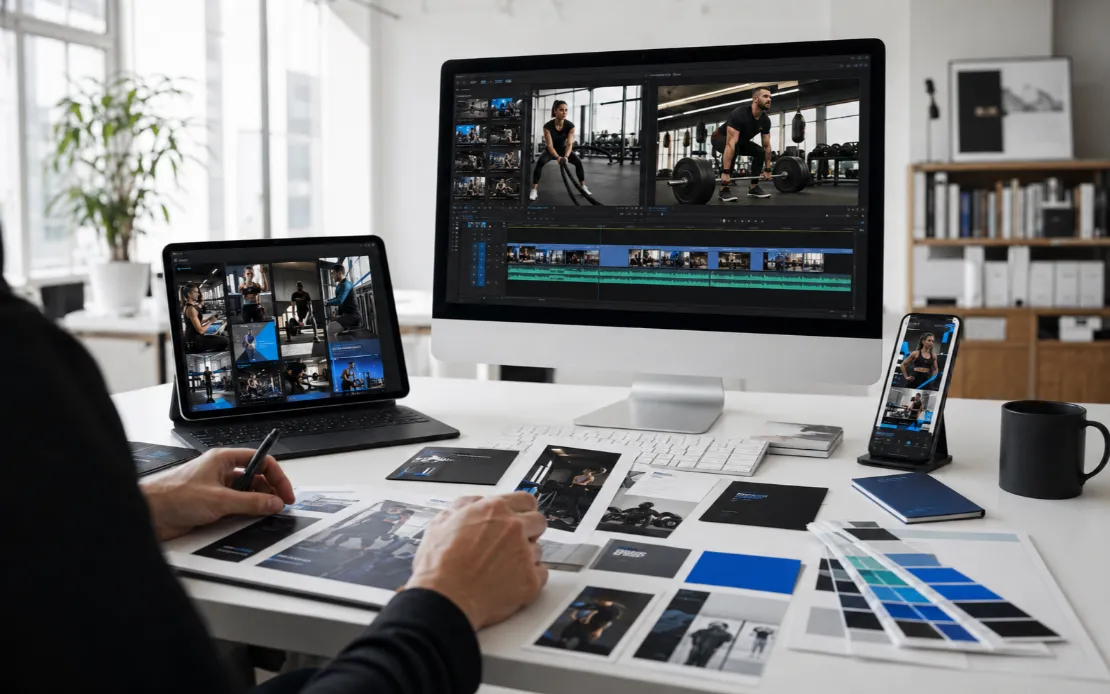
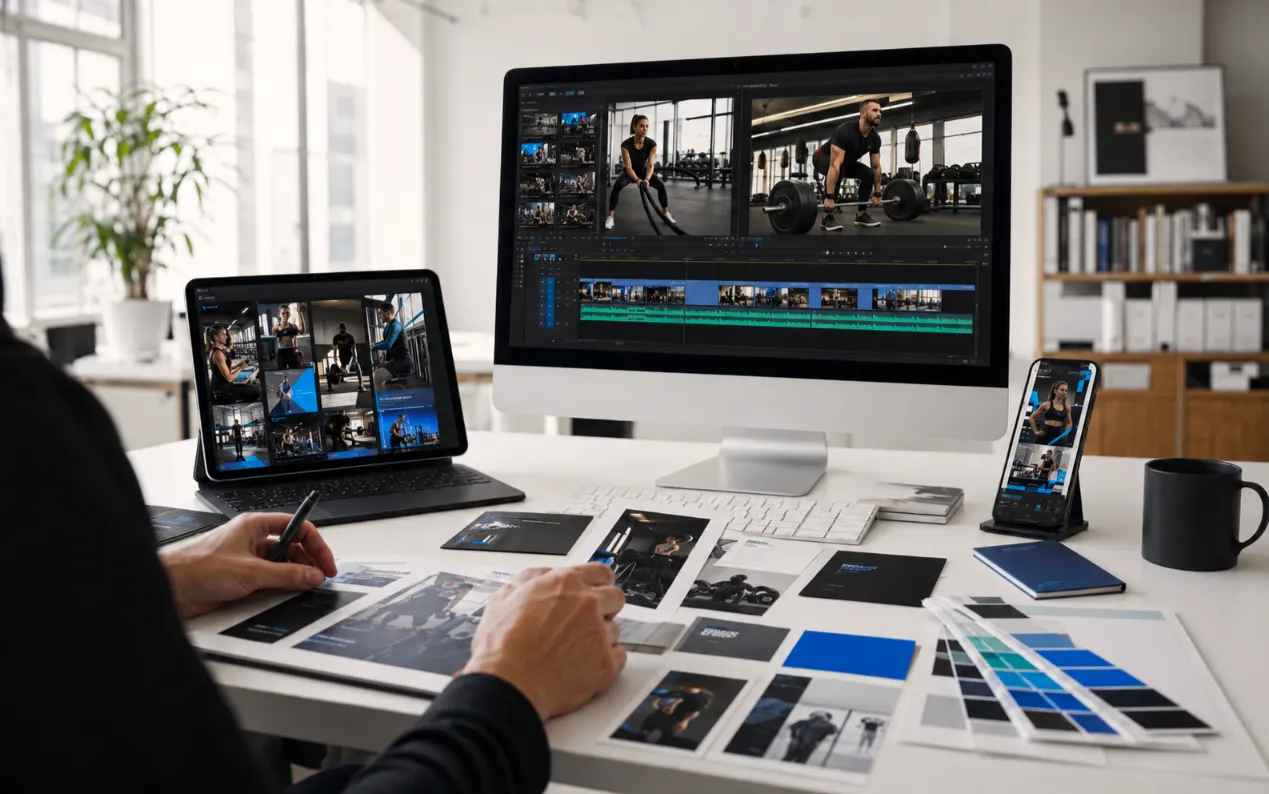
2026-07-23_08:58_A22@@@_ajustes-seccion-estudio-inicio

diff --git a/src/pages/1-inicio/InicioPage.jsx b/src/pages/1-inicio/InicioPage.jsx
@@ -485,9 +485,9 @@ function EcosystemIntro() {
 const VLAB = '/assets/pages/1-inicio'
 
 const estudioServices = [
-  { title: 'Branding Digital', icon: Brush, image: `${VLAB}/inicio-branding-hospitality-moodboard.webp` },
+  { title: 'Branding Digital', icon: Brush, image: `${VLAB}/inicio-branding-hospitality-moodboard2.webp` },
   { title: 'Contenido Visual', icon: ImageIcon, image: `${VLAB}/inicio-servicio-contenido.webp` },
-  { title: 'Presencia Profesional', icon: CircleUserRound, image: `${VLAB}/estudio_portada_identidad_ejecutiva.webp` },
+  { title: 'Presencia Profesional', icon: CircleUserRound, image: `${VLAB}/estudio_portada_identidad_ejecutiva2.webp` },
   { title: 'Estrategia Digital', icon: ScanSearch, image: `${VLAB}/inicio-servicio-estrategia.webp` },
 ]
 
@@ -499,8 +499,9 @@ function EstudioSection() {
   return (
     <section id="estudio" className="relative flex flex-col justify-center min-h-[100dvh] bg-[#f8f9f7] px-6 py-12 text-[#20201f] sm:px-10 lg:px-14">
       <div className="mx-auto w-full max-w-[96rem]">
-        <Reveal className="mb-6 grid items-center gap-8 lg:grid-cols-[.9fr_1.1fr] lg:gap-14">
-          <div>
+        <Reveal className="grid items-center gap-8 lg:grid-cols-[0.8fr_1.2fr] lg:gap-14">
+          <div className="flex flex-col">
+            <div>
               <p className="mb-5 text-[12px] font-bold uppercase tracking-[0.22em] text-[#ff4b0b]">
                 Estudio creativo y creación contenido
               </p>
@@ -511,10 +512,51 @@ function EstudioSection() {
                 Haz que tu marca se vea<br /><span className="text-[#ff4b0b]">clara, sólida y profesional.</span>
               </h2>
               <p className="mt-4 max-w-md text-sm leading-relaxed text-black/55">
-              Define tu marca, mejora tu contenido y construye una presencia digital más clara con apoyo de IA.
-            </p>
+                Define tu marca, mejora tu contenido y construye una presencia digital más clara con apoyo de IA.
+              </p>
+            </div>
+
+            <div className="mt-8 grid min-h-0 grid-cols-2 content-stretch gap-2 sm:gap-3">
+              {estudioServices.map(({ title, icon: Icon }, index) => (
+                <motion.div
+                  key={title}
+                  initial={reduceMotion ? false : { opacity: 0, y: 14 }}
+                  whileInView={{ opacity: 1, y: 0 }}
+                  viewport={{ once: true, amount: 0.2 }}
+                  transition={{ duration: 0.45, delay: 0.06 * index, ease: [0.22, 1, 0.36, 1] }}
+                >
+                  <button
+                    type="button"
+                    onClick={() => setActive(index)}
+                    className={`group flex h-full w-full items-center gap-3 border px-4 py-3 text-left transition-all duration-300 sm:px-5 sm:py-3.5 ${
+                      active === index
+                        ? 'border-[#ff4b0b] bg-white shadow-[0_4px_16px_rgba(255,75,11,0.08)]'
+                        : 'border-black/10 bg-white/40 hover:bg-white hover:border-[#ff4b0b]/30'
+                    }`}
+                  >
+                    <span className={`grid h-8 w-8 shrink-0 place-items-center transition-colors duration-300 ${
+                      active === index
+                        ? 'bg-[#ff4b0b] text-white shadow-[0_4px_12px_rgba(255,75,11,0.18)]'
+                        : 'border border-black/10 text-[#20201f] group-hover:border-[#ff4b0b]/30 group-hover:text-[#ff4b0b]'
+                    }`}>
+                      <Icon size={17} strokeWidth={1.5} />
+                    </span>
+                    <span className={`text-xs font-bold uppercase tracking-[-0.01em] leading-tight transition-colors ${
+                      active === index ? 'text-[#ff4b0b]' : 'text-[#20201f]'
+                    }`}>
+                      {title}
+                    </span>
+                  </button>
+                </motion.div>
+              ))}
+            </div>
+
+            <div className="mt-8 flex justify-start">
+              <ArrowLink to="/estudio">Ver estudio creativo</ArrowLink>
+            </div>
           </div>
-          <div className="relative aspect-[4/3] w-full overflow-hidden lg:aspect-auto lg:h-[42vh]">
+
+          <div className="relative aspect-[4/3] w-full overflow-hidden lg:aspect-[3/2]">
             <AnimatePresence mode="wait">
               <motion.img
                 key={activeService.title}
@@ -533,54 +575,6 @@ function EstudioSection() {
               {activeService.title}
             </span>
           </div>
-        </Reveal>
-
-        <div className="grid min-h-0 grid-cols-2 content-stretch gap-2 sm:gap-3">
-          {estudioServices.map(({ title, icon: Icon }, index) => (
-            <motion.div
-              key={title}
-              initial={reduceMotion ? false : { opacity: 0, y: 14 }}
-              whileInView={{ opacity: 1, y: 0 }}
-              viewport={{ once: true, amount: 0.2 }}
-              transition={{ duration: 0.45, delay: 0.06 * index, ease: [0.22, 1, 0.36, 1] }}
-            >
-              <button
-                type="button"
-                onClick={() => setActive(index)}
-                className={`group flex h-full w-full items-center gap-4 border px-5 py-4 text-left transition-all duration-300 sm:px-6 sm:py-5 ${
-                  active === index
-                    ? 'border-[#ff4b0b] bg-white shadow-[0_4px_16px_rgba(255,75,11,0.08)]'
-                    : 'border-black/10 bg-white/40 hover:bg-white hover:border-[#ff4b0b]/30'
-                }`}
-              >
-                <span className={`grid h-10 w-10 shrink-0 place-items-center transition-colors duration-300 ${
-                  active === index
-                    ? 'bg-[#ff4b0b] text-white shadow-[0_4px_12px_rgba(255,75,11,0.18)]'
-                    : 'border border-black/10 text-[#20201f] group-hover:border-[#ff4b0b]/30 group-hover:text-[#ff4b0b]'
-                }`}>
-                  <Icon size={17} strokeWidth={1.5} />
-                </span>
-                <span className={`text-sm font-bold uppercase tracking-[-0.01em] leading-tight transition-colors ${
-                  active === index ? 'text-[#ff4b0b]' : 'text-[#20201f]'
-                }`}>
-                  {title}
-                </span>
-              </button>
-            </motion.div>
-          ))}
-        </div>
-
-        <Reveal className="mt-3 flex items-center justify-between border-t border-black/10 py-4">
-          <div className="flex items-center gap-3">
-            <span className="grid h-8 w-8 shrink-0 place-items-center border border-[#ff4b0b]/30 text-[#ff4b0b]">
-              <Sparkles size={15} strokeWidth={1.5} />
-            </span>
-            <div>
-              <span className="text-sm font-bold uppercase tracking-[0.06em]">Consultoría estratégica</span>
-              <span className="ml-3 hidden text-xs text-black/40 lg:inline">Diagnóstico, dirección y plan de acción para tu marca.</span>
-            </div>
-          </div>
-          <ArrowLink to="/estudio">Ver estudio creativo</ArrowLink>
         </Reveal>
       </div>
     </section>
